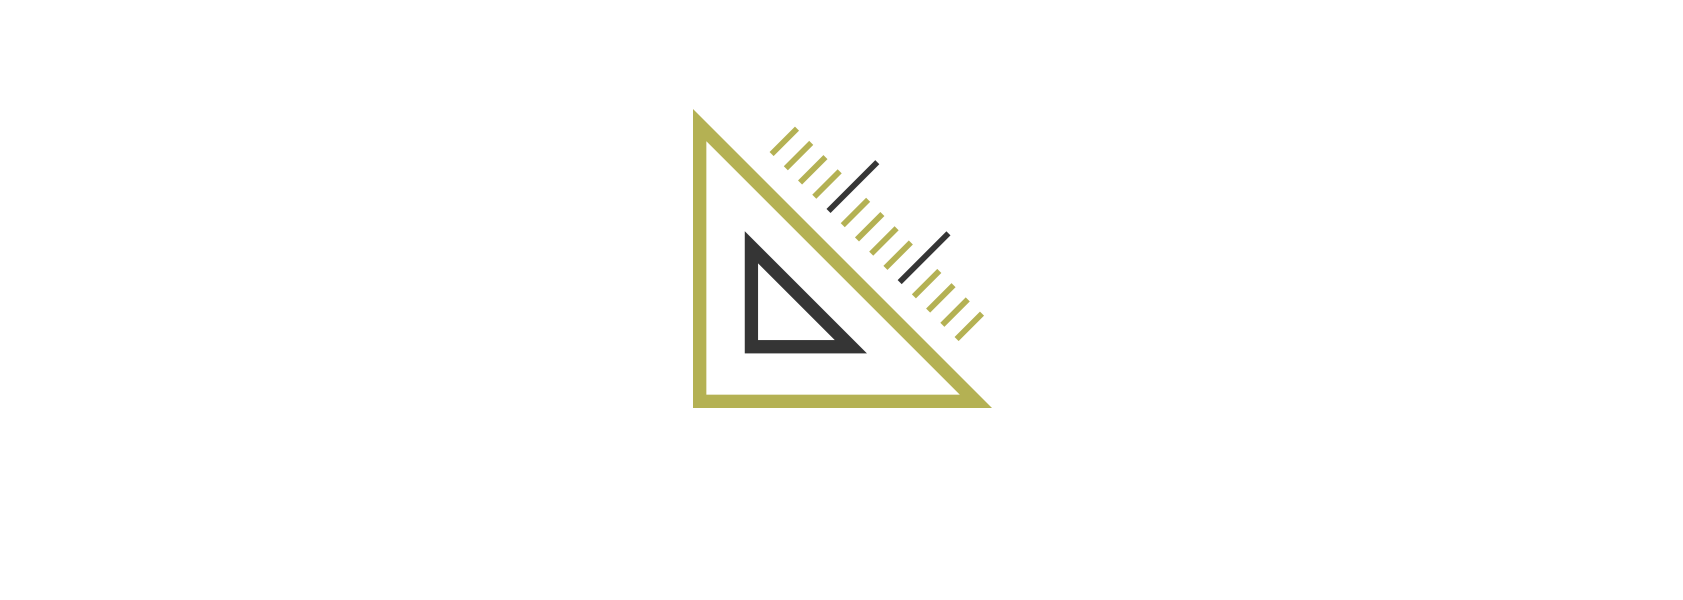
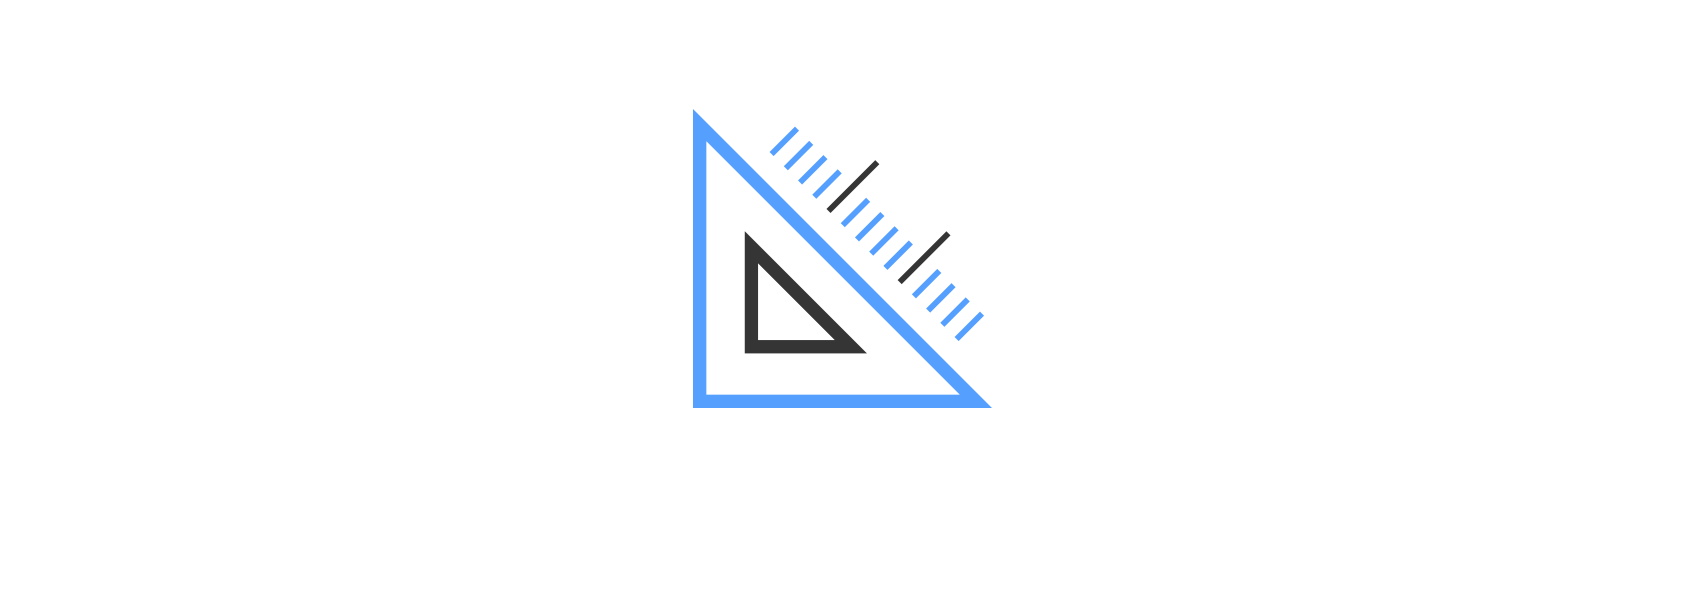
all random tweaks
random tweaks

Changed region(s): [[0.4017, 0.18, 0.587, 0.69]]

diff --git a/index.html b/index.html
@@ -22,7 +22,7 @@
 <div class="fix-nav">
 	<div class="container-2">
 			<div class="nav-logo">
-					<img src="img/tn_logo_dark2.png" alt="tn_logo_dark3" width="35" height="35">
+					<img src="img/tn_logo_dark2_b.png" alt="tn_logo_dark3" width="35" height="35">
 			</div>
 <!--
 			<div class="brand-name">
@@ -79,7 +79,7 @@
 	<div class="hero home container-1">
 		<div class="container-2">
 			<div class="hero-logo">
-					<img src="img/tn_logo_dark2.png" alt="tn_logo_dark3" width="45" height="45" onclick="window.location='index.html';">
+					<img src="img/tn_logo_dark2_b.png" alt="tn_logo_dark3" width="45" height="45" onclick="window.location='index.html';">
 			</div>
 			
 			<div class="hero-title">
@@ -120,7 +120,7 @@
     </div>
     
     <div class="work-container container-1">
-<!--     <div class="container-2"> -->
+    <div class="container-2">
     	<div class="work-column2">
     		
 	    	<div class="work-item s1">
@@ -155,7 +155,7 @@
 	    
     		
     	</div>
-<!--     </div>    	 -->
+    </div>    	
     </div>
     
     	<div class="about-section container-1" id="about-section">

diff --git a/css/prototype.css b/css/prototype.css
@@ -92,14 +92,14 @@ p {
 	line-height: 30px;
 	position: relative;
 	color: #353535;
-	font-family: sans-serif;
+	font-family: verdana;
 }
 
 p.intro-text {
 	font-size: 24px;
 	line-height: 40px;
 	margin-bottom: 40px;
-	color:#b4b153;
+	color:#c4c4c4;
 	font-family: serif;
 	font-weight: lighter;
 }
@@ -317,7 +317,7 @@ p.intro-text {
 }
 
 .nav-links a {
-	color: #b4b153;
+	color: #559fff;
 	font-size: 14px;
 	text-decoration: none;
 	cursor: pointer;
@@ -537,7 +537,7 @@ p.intro-text {
 
 .work-container {
 	height: 1200px;
-	background-color: #353535;
+	background-color: #fff;
 	/* padding: 20px 0; */	
 }
 
@@ -609,13 +609,13 @@ p.intro-text {
 
 .work-item.s2 .work-label:hover {
 	opacity: 1;
-	color: #b4b153;
+	color: #559fff;
 	background-color: rgba(10,10,10,0.8);
 }
 
 .work-item.s1 .work-label:hover {
 	opacity: 1;
-	color: #b4b153;
+	color: #559fff;
 	background-color: rgba(10,10,10,0.8);
 }
 

diff --git a/projects_photog.html b/projects_photog.html
@@ -15,7 +15,7 @@
 <div class="fix-nav">
 	<div class="container-2">
 			<div class="nav-logo">
-					<img src="img/tn_logo_dark2.png" alt="tn_logo_dark3" width="35" height="35" onclick="window.location='index.html';">
+					<img src="img/tn_logo_dark2_b.png" alt="tn_logo_dark3" width="35" height="35" onclick="window.location='index.html';">
 			</div>
 <!--
 			<div class="brand-name">
@@ -120,7 +120,7 @@
     </div>
     
     <div class="work-container container-1" >
-<!--     <div class="container-2"> -->
+    <div class="container-2">
     	<div class="work-column2">
     		
 	    	<div class="work-item s1">
@@ -159,7 +159,7 @@
 	    
     		
     	</div>
-<!--     </div> -->    	
+    </div>    	
     </div>
     
 	<script src="js/jquery-1.7.2.min.js"></script>

diff --git a/projects_collections.html b/projects_collections.html
@@ -15,7 +15,7 @@
 <div class="fix-nav">
 	<div class="container-2">
 			<div class="nav-logo">
-					<img src="img/tn_logo_dark2.png" alt="tn_logo_dark3" width="35" height="35" onclick="window.location='index.html';">
+					<img src="img/tn_logo_dark2_b.png" alt="tn_logo_dark3" width="35" height="35" onclick="window.location='index.html';">
 			</div>
 <!--
 			<div class="brand-name">
@@ -123,7 +123,7 @@
     </div>
     
     <div class="work-container container-1">
-<!--     <div class="container-2"> -->
+    <div class="container-2">
     	<div class="work-column2">
     		
 	    	<div class="work-item s1">
@@ -162,7 +162,7 @@
 	    
     		
     	</div>
-<!--     </div> -->    	
+    </div>    	
     </div>
     
 	<script src="js/jquery-1.7.2.min.js"></script>
